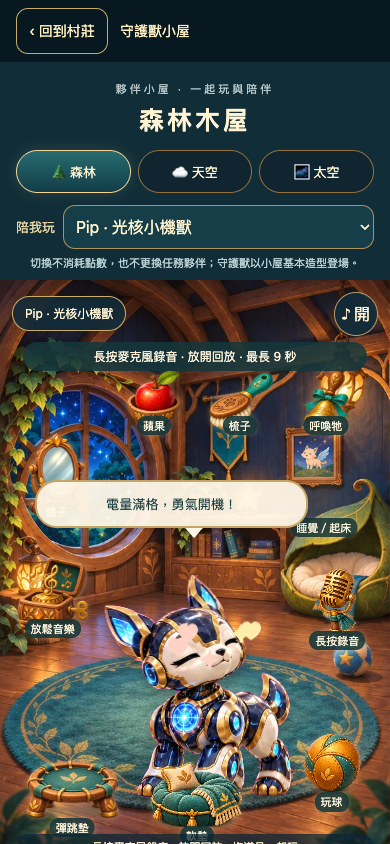
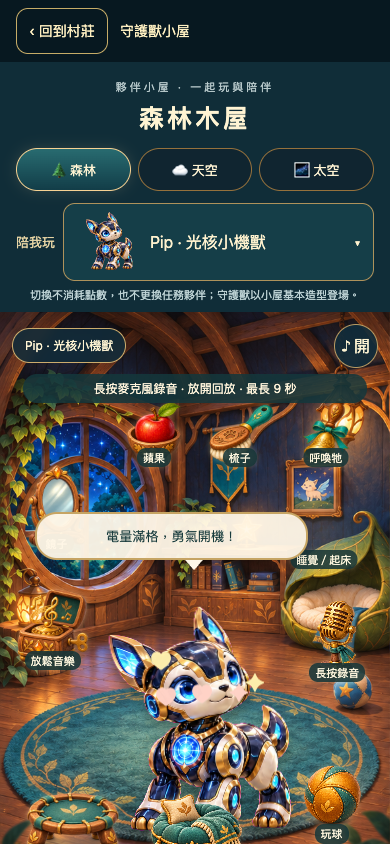
fix(companions): show available partners with picture picker [actor:codex approval:user-24688]

diff --git a/public/guardian-home/complete-home/companion-picker.js b/public/guardian-home/complete-home/companion-picker.js
@@ -5,18 +5,33 @@
  .guardian-sprite.species-renderer{background-image:none!important}
  .companion-picker{display:flex;align-items:center;gap:8px;margin:12px 0 0;text-align:left}
  .companion-picker label{font-size:13px;white-space:nowrap;color:#e6d4a4}
- .companion-picker select{width:100%;min-width:0;min-height:44px;font:inherit;font-size:16px;color:#fff2ce;background:#153e48;border:1px solid #ae925b;border-radius:12px;padding:8px}
+ .companion-picker button{display:flex;align-items:center;gap:10px;width:100%;min-width:0;min-height:64px;font:inherit;font-size:16px;color:#fff2ce;background:#153e48;border:1px solid #ae925b;border-radius:12px;padding:6px 12px;text-align:left}
+ .companion-thumb{width:64px;height:64px;flex:none;object-fit:contain;pointer-events:none}
+ #home-roster{display:grid;grid-template-columns:repeat(2,minmax(0,1fr));gap:10px}
+ #home-roster .choice{display:flex;flex-direction:column;align-items:center;justify-content:center;min-width:0;gap:4px;padding:10px;font-size:16px}
+ #home-roster .companion-thumb{width:96px;height:96px;max-width:100%}
+ #home-roster .choice[aria-pressed="true"]{outline:3px solid #f3cf70;background:#285967}
+ #home-companion:focus-visible,#home-roster .choice:focus-visible{outline:3px solid #fff2ce;outline-offset:3px}
  .companion-note{font-size:11px;line-height:1.5;color:#bfd4d6;margin:6px 0 0}
  .choice:disabled{opacity:.45;cursor:default}`;document.head.append(styles);
  if(!profile)return;
+ const available=Object.values(catalog).filter(entry=>allowed.includes(entry.id));
  const row=document.createElement('div');row.className='companion-picker';
  const label=document.createElement('label');label.htmlFor='home-companion';label.textContent='陪我玩';
- const select=document.createElement('select');select.id='home-companion';select.setAttribute('aria-label','選擇小屋夥伴');
- for(const entry of Object.values(catalog)){const option=document.createElement('option');option.value=entry.id;option.disabled=!allowed.includes(entry.id);option.textContent=entry.name+(option.disabled?'（尚未取得）':'');select.append(option);}
- select.value=profile.id;row.append(label,select);document.querySelector('header').append(row);
+ // Render the existing first atlas pose, using the same chroma key as the pet.
+ const portraits=new Map();
+ function portrait(entry){
+  const canvas=document.createElement('canvas');canvas.className='companion-thumb';canvas.width=128;canvas.height=128;canvas.setAttribute('aria-hidden','true');
+  if(!portraits.has(entry.id))portraits.set(entry.id,new Promise(resolve=>{const img=new Image();img.onload=()=>resolve(img);img.onerror=()=>resolve(null);img.src=entry.atlas;}));
+  portraits.get(entry.id).then(img=>{if(!img)return;const ctx=canvas.getContext('2d');ctx.drawImage(img,0,0,img.width/3,img.height/2,0,0,128,128);const pixels=ctx.getImageData(0,0,128,128),d=pixels.data;for(let i=0;i<d.length;i+=4){const key=(Math.min(d[i],d[i+2])-d[i+1])/255;const t=Math.max(0,Math.min(1,(key-.18)/.44));d[i+3]*=1-t*t*(3-2*t);}ctx.putImageData(pixels,0,0);canvas.dataset.ready='true';});
+  return canvas;
+ }
+ const select=document.createElement('button');select.type='button';select.id='home-companion';select.dataset.companion=profile.id;select.setAttribute('aria-label','選擇小屋夥伴，目前是'+profile.name);select.setAttribute('aria-haspopup','dialog');
+ const name=document.createElement('span');name.textContent=profile.name;const arrow=document.createElement('span');arrow.textContent='▾';arrow.style.marginLeft='auto';arrow.setAttribute('aria-hidden','true');
+ select.append(portrait(profile),name,arrow);row.append(label,select);document.querySelector('header').append(row);
  const note=document.createElement('p');note.className='companion-note';note.textContent='切換不消耗點數，也不更換任務夥伴；守護獸以小屋基本造型登場。';row.after(note);
  function choose(id){if(!allowed.includes(id)||id===profile.id)return;const url=new URL(location.href);url.searchParams.set('companion',id);location.replace(url.href);}
- select.onchange=()=>choose(select.value);
+
  const updateLabels=()=>{
   document.querySelector('.badge').textContent=profile.name;
   document.querySelector('.pet').setAttribute('aria-label',profile.name+'，點一下打招呼');
@@ -28,10 +43,11 @@
  // Existing reset/ball/sleep actions can refresh legacy labels: update only on action boundaries.
  document.querySelector('.stage').addEventListener('pointerup',()=>setTimeout(updateLabels,0));
  document.querySelector('#invite').textContent='換個夥伴';
- document.querySelector('#invite').onclick=()=>{
+ function showRoster(){
   resetPet();open('<h2>今天和誰一起玩？</h2><p>已取得的夥伴都能來小屋，不會花掉點數或改變收藏。</p><div class="choices" id="home-roster"></div>');
-  for(const entry of Object.values(catalog)){const button=document.createElement('button');button.className='choice';button.textContent=(entry.id===profile.id?'✓ ':'')+entry.name+(allowed.includes(entry.id)?'':' · 尚未取得');button.disabled=!allowed.includes(entry.id);button.onclick=()=>{panel.close();choose(entry.id)};document.querySelector('#home-roster').append(button);}
+  for(const entry of available){const button=document.createElement('button');button.className='choice';button.type='button';button.dataset.companion=entry.id;button.setAttribute('aria-pressed',String(entry.id===profile.id));const text=document.createElement('span');text.textContent=(entry.id===profile.id?'✓ ':'')+entry.name;button.append(portrait(entry),text);button.onclick=()=>{panel.close();choose(entry.id)};document.querySelector('#home-roster').append(button);}
  };
+ select.onclick=showRoster;document.querySelector('#invite').onclick=showRoster;
  const oldOpen=open;open=function(html){oldOpen(html.replaceAll('岩背龜',profile.name));};
  window.guardianRoster={id:profile.id,allowed:[...allowed],mouth:[...profile.mouth]};
 })();

diff --git a/public/guardian-home/complete-home/index.html b/public/guardian-home/complete-home/index.html
@@ -10,4 +10,4 @@ $('#invite').onclick=()=>{open('<h2>邀請夥伴</h2><p>岩背龜已入住，點
 document.querySelector('header small').textContent='原始造型素材 · 2.5D 互動版';
 document.querySelector('.badge').textContent='岩背龜 · 原始設計';
 document.querySelector('footer').innerHTML='角色直接沿用原始造型圖，沒有重新建模或重新配色。<br>這是 2.5D 圖片互動，不是已還原完成的 3D 模型。<br>餵食、梳毛、玩球與音樂盒保留。';
-</script><script src="complete-home/bridge.js?v=3"></script><script type="importmap">{"imports":{"three":"./three-d/vendor/three.module.js"}}</script><script type="module" src="complete-home/face-loader.js?v=1"></script><style>.guardian-sprite{position:relative}.guardian-sprite canvas{position:absolute;inset:0;width:100%;height:100%;pointer-events:none}.guardian-sprite.face-on{background-image:none}.voice-avatar .guardian-sprite{background-image:url('assets/stoneback-poses-v1.png')!important}.voice-avatar canvas{display:none!important}.pet.fed-joy .guardian-sprite{animation:fed-joy .65s ease-in-out 3}@keyframes fed-joy{25%{transform:translateY(-8px) rotate(-5deg)}75%{transform:translateY(-4px) rotate(4deg)}}</style><link rel="stylesheet" href="complete-home/hold-voice.css?v=2"><script src="complete-home/hold-voice.js?v=2"></script><script src="complete-home/companion-picker.js?v=1"></script></html>
+</script><script src="complete-home/bridge.js?v=3"></script><script type="importmap">{"imports":{"three":"./three-d/vendor/three.module.js"}}</script><script type="module" src="complete-home/face-loader.js?v=1"></script><style>.guardian-sprite{position:relative}.guardian-sprite canvas{position:absolute;inset:0;width:100%;height:100%;pointer-events:none}.guardian-sprite.face-on{background-image:none}.voice-avatar .guardian-sprite{background-image:url('assets/stoneback-poses-v1.png')!important}.voice-avatar canvas{display:none!important}.pet.fed-joy .guardian-sprite{animation:fed-joy .65s ease-in-out 3}@keyframes fed-joy{25%{transform:translateY(-8px) rotate(-5deg)}75%{transform:translateY(-4px) rotate(4deg)}}</style><link rel="stylesheet" href="complete-home/hold-voice.css?v=2"><script src="complete-home/hold-voice.js?v=2"></script><script src="complete-home/companion-picker.js?v=2"></script></html>

diff --git a/src/GuardianHome.tsx b/src/GuardianHome.tsx
@@ -12,7 +12,7 @@ export default function GuardianHome({visible,onClose,companions,selected}:{visi
     <Text style={{color:'#fff0c1',flex:1}}>守護獸小屋</Text>
    </View>
    {Platform.OS==='web'?React.createElement('iframe',{
-    title:'守護獸互動小屋',src:'/guardian-home/complete-home/index.html?v=companions2&companions='+encodeURIComponent(companions.join(','))+'&companion='+encodeURIComponent(selected||companions[0]||''),
+    title:'守護獸互動小屋',src:'/guardian-home/complete-home/index.html?v=companions3&companions='+encodeURIComponent(companions.join(','))+'&companion='+encodeURIComponent(selected||companions[0]||''),
     allow:'microphone',style:{border:0,width:'100%',flex:1,minHeight:0,background:'#071820'},
     'data-testid':'guardian-home-frame'
    }):<Text style={{color:'#fff0c1',padding:20}}>請使用網頁版開啟互動小屋。</Text>}

diff --git a/reports/guardian-home-integration/STATUS.md b/reports/guardian-home-integration/STATUS.md
@@ -35,3 +35,8 @@ Live verification: Render dep-dc181556e07s73cjkr70 deployed 1001101 at 13:43 Tai
 Rollout follow-up: first hosted main-app test briefly loaded the previous app bundle while the new assets were already live, omitting roster query. Recheck confirmed new bundle passes roster. Hardened missing-roster fallback to legacy Stoneback-only instead of all species; all-species tests now pass an explicit fixture roster.
 
 Final production: Render dep-dc18dnqfngtc73eubu40 Live5fd3e48 at14:10:22 Taipei. Eight-species hosted gameplay and390/1024 account checks passed on a2aa97e; final legacy/owned/full-roster targeted hosted checks passed after5fd3e48.
+
+## Picture picker / owned-only display — user 24688 and follow-up
+- Both entry selector and switch dialog show only currently allowed companions; no disabled unowned entries. Existing roster/ownership and task data untouched.
+- Replaced native text select with a labeled image button and two-column portrait buttons, selected outline/check, keyboard focus and accessible names. Portraits render the existing atlas first pose with its chroma key; only current/allowed images load, no new art.
+- Build, 320/390 roster and switching checks, and 390/1024 embedded gameplay/progress checks passed. Actual screenshots reviewed. Production deployment pending.
